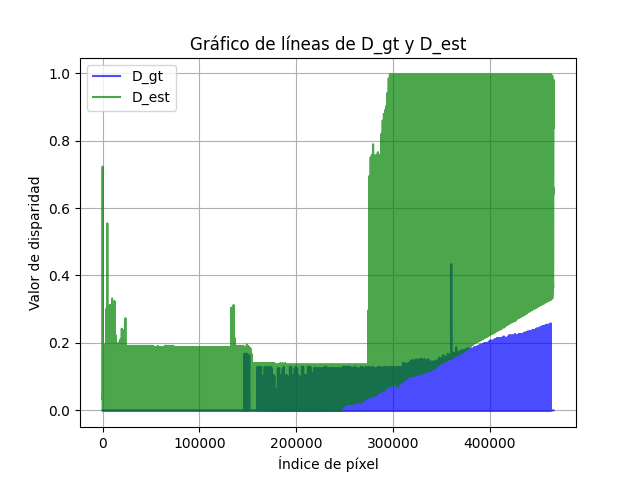
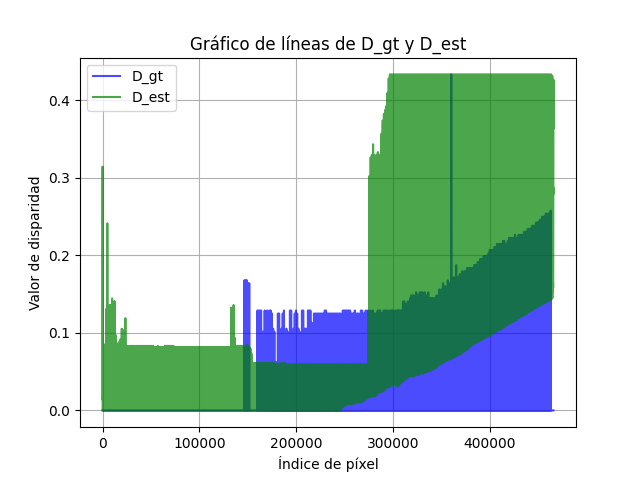
Feat: changes in metrics

diff --git a/metrics/disparity_metrics.py b/metrics/disparity_metrics.py
@@ -3,13 +3,10 @@ import cv2
 from sklearn.cluster import KMeans
 
 def disp_read(filename):
-    """Load disparity map from PNG file."""
     I = cv2.imread(filename, cv2.IMREAD_GRAYSCALE)
-    #if len(I.shape) == 3 and I.shape[-1] > 1:
-        #I = cv2.cvtColor(cv2.imread(filename), cv2.COLOR_BGR2GRAY).astype(np.float32)
-        
     D = I.astype(np.float32) / 256.0
-    #D[I == 0] = -1  # Set invalid pixels
+    D[I == 0] = -1  # Píxeles inválidos
+    D[D < 0] = 0  # Eliminar valores negativos no deseados
     return D
 
 
@@ -124,7 +121,7 @@ def calculate_bmpre(D_gt, D_est, delta, delta_prime):
     tau = np.where(D_gt[mask_valid] > 0, relative_error, 0)
 
     # Contar píxeles que superan el umbral delta
-    bmpre = np.sum(tau[delta_error > delta]) / np.sum(delta_error > delta_prime)
+    bmpre = np.sum(tau[delta_error > delta]) / (np.sum(delta_error > delta_prime) + 1e-8)
     return bmpre * 100  # Convertir a porcentaje
 
 # Ejemplo de uso con valores ficticios
@@ -132,7 +129,9 @@ D_gt = disp_read("../ground_truth/disparity_maps/000013_10.png")
 D_est = disp_read("../outputs/disparity_results/000013_10.png")
 
 # Normalizar la disparidad estimada
-# D_est = (D_est / np.max(D_est)) * np.max(D_gt[D_gt > 0]) 
+D_est = (D_est / np.max(D_est)) * np.max(D_gt[D_gt > 0]) 
+D_est[D_est < 0] = 0  # Evitar valores negativos
+
 
 
 f = 725.0087  # Ejemplo de longitud focal
@@ -232,14 +231,34 @@ print(f"Valor mínimo de D_est: {min_D_est}")
 print(f"Valor máximo de D_est: {max_D_est}")
 
 # Acceder a los primeros 100 píxeles de cada imagen y crear listas con sus valores
-D_gt_values = D_gt.flatten()[:1000]
-D_est_values = D_est.flatten()[:1000]
+D_gt_values = D_gt.flatten()[:100]
+D_est_values = D_est.flatten()[:100]
 
 # Mostrar los valores de los primeros 100 píxeles
-print("Primeros 1000 valores de D_gt:")
+print("Primeros 100 valores de D_gt:")
 print(D_gt_values)
 
-print("Primeros 1000 valores de D_est:")
+print("Primeros 100 valores de D_est:")
 print(D_est_values)
 
 ##################### -------------------------- #####################
+
+# Redirigir la salida de los prints a un archivo .txt
+with open('/home/ramiro-avila/safe-speed-navigation/metrics/resultados.txt', 'w') as f:
+    f.write(f"MSE: {mse_value:.5f}\n")
+    f.write(f"SZE: {sze_value:.5f}\n")
+    f.write(f"BMP: {bmp_value:.5f}%\n")
+    f.write(f"MRE: {mre_value:.2f}%\n")
+    f.write(f"BMPRE: {bmpre_value:.5f}%\n")
+    f.write(f"RMSE: {rmse_value:.5f}\n")
+    
+    f.write(f"Valor mínimo de D_gt: {min_D_gt}\n")
+    f.write(f"Valor máximo de D_gt: {max_D_gt}\n")
+    f.write(f"Valor mínimo de D_est: {min_D_est}\n")
+    f.write(f"Valor máximo de D_est: {max_D_est}\n")
+    
+    f.write("Primeros 1000 valores de D_gt:\n")
+    np.savetxt(f, D_gt_values, fmt='%.5f')
+    
+    f.write("Primeros 1000 valores de D_est:\n")
+    np.savetxt(f, D_est_values, fmt='%.5f')
